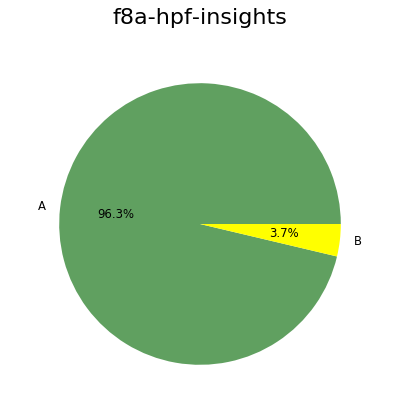
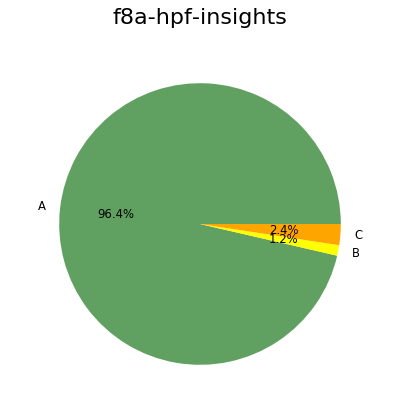
Dashboard 2018-08-17

Changed region(s): [[0.51, 0.54, 0.9, 0.66], [0.27, 0.51, 0.3, 0.54]]

diff --git a/dashboard/f8a-hpf-insights.cc.A.html b/dashboard/f8a-hpf-insights.cc.A.html
@@ -1,30 +1,31 @@
 <pre>tests/unit_tests/test_flask_endpoint.py
+    <span style="color:#00AA00">M </span>12:4 TestFlaskMethods.setUp - <span style="color:#00AA00">A (2)</span>
     <span style="color:#00AAAA">C </span>9:0 TestFlaskMethods - <span style="color:#00AA00">A (1)</span>
-    <span style="color:#00AA00">M </span>12:4 TestFlaskMethods.setUp - <span style="color:#00AA00">A (1)</span>
-    <span style="color:#00AA00">M </span>17:4 TestFlaskMethods.test_health_checks - <span style="color:#00AA00">A (1)</span>
-    <span style="color:#00AA00">M </span>23:4 TestFlaskMethods.test_root_path - <span style="color:#00AA00">A (1)</span>
-    <span style="color:#00AA00">M </span>27:4 TestFlaskMethods.test_model_details - <span style="color:#00AA00">A (1)</span>
-    <span style="color:#00AA00">M </span>32:4 TestFlaskMethods.test_companion_recommendations - <span style="color:#00AA00">A (1)</span>
+    <span style="color:#00AA00">M </span>18:4 TestFlaskMethods.test_health_checks - <span style="color:#00AA00">A (1)</span>
+    <span style="color:#00AA00">M </span>24:4 TestFlaskMethods.test_root_path - <span style="color:#00AA00">A (1)</span>
+    <span style="color:#00AA00">M </span>28:4 TestFlaskMethods.test_model_details - <span style="color:#00AA00">A (1)</span>
+    <span style="color:#00AA00">M </span>33:4 TestFlaskMethods.test_companion_recommendations - <span style="color:#00AA00">A (1)</span>
 tests/unit_tests/test_scoring_hpf_scoring.py
-    <span style="color:#00AA00">M </span>20:4 TestHPFScoringMethods.test_basic_object - <span style="color:#00AA00">B (8)</span>
-    <span style="color:#00AA00">M </span>92:4 TestHPFScoringMethods.test_predict - <span style="color:#00AA00">B (7)</span>
-    <span style="color:#00AA00">M </span>64:4 TestHPFScoringMethods.test_folding_in - <span style="color:#00AA00">B (6)</span>
-    <span style="color:#00AAAA">C </span>11:0 TestHPFScoringMethods - <span style="color:#00AA00">A (3)</span>
-    <span style="color:#00AA00">M </span>30:4 TestHPFScoringMethods.test_normalise_result - <span style="color:#00AA00">A (3)</span>
-    <span style="color:#00AA00">M </span>114:4 TestHPFScoringMethods.test_model_details - <span style="color:#00AA00">A (2)</span>
-    <span style="color:#00AA00">M </span>123:4 TestHPFScoringMethods.test_get_sizeof - <span style="color:#00AA00">A (2)</span>
+    <span style="color:#00AA00">M </span>82:4 TestHPFScoringMethods.test_folding_in - <span style="color:#AA5500">C (13)</span>
+    <span style="color:#00AA00">M </span>124:4 TestHPFScoringMethods.test_predict - <span style="color:#AA5500">C (12)</span>
+    <span style="color:#00AA00">M </span>21:4 TestHPFScoringMethods.test_basic_object - <span style="color:#00AA00">B (10)</span>
+    <span style="color:#00AAAA">C </span>11:0 TestHPFScoringMethods - <span style="color:#00AA00">A (5)</span>
+    <span style="color:#00AA00">M </span>33:4 TestHPFScoringMethods.test_normalise_result - <span style="color:#00AA00">A (5)</span>
+    <span style="color:#00AA00">M </span>59:4 TestHPFScoringMethods.test_match_feedback_manifest - <span style="color:#00AA00">A (4)</span>
+    <span style="color:#00AA00">M </span>162:4 TestHPFScoringMethods.test_model_details - <span style="color:#00AA00">A (3)</span>
+    <span style="color:#00AA00">M </span>172:4 TestHPFScoringMethods.test_get_sizeof - <span style="color:#00AA00">A (2)</span>
     <span style="color:#00AA00">M </span>14:4 TestHPFScoringMethods.__init__ - <span style="color:#00AA00">A (1)</span>
-    <span style="color:#00AA00">M </span>52:4 TestHPFScoringMethods.test_filter_recommendations - <span style="color:#00AA00">A (1)</span>
+    <span style="color:#00AA00">M </span>70:4 TestHPFScoringMethods.test_filter_recommendations - <span style="color:#00AA00">A (1)</span>
 tests/unit_tests/test_local_datastore.py
     <span style="color:#00AA00">M </span>18:4 TestLocalDataStoreMethods.test_get_name - <span style="color:#00AA00">A (3)</span>
-    <span style="color:#00AA00">M </span>40:4 TestLocalDataStoreMethods.test_read_json_file - <span style="color:#00AA00">A (3)</span>
-    <span style="color:#00AA00">M </span>48:4 TestLocalDataStoreMethods.test_read_all_json_files - <span style="color:#00AA00">A (3)</span>
+    <span style="color:#00AA00">M </span>42:4 TestLocalDataStoreMethods.test_read_json_file - <span style="color:#00AA00">A (3)</span>
+    <span style="color:#00AA00">M </span>51:4 TestLocalDataStoreMethods.test_read_all_json_files - <span style="color:#00AA00">A (3)</span>
     <span style="color:#00AAAA">C </span>10:0 TestLocalDataStoreMethods - <span style="color:#00AA00">A (2)</span>
-    <span style="color:#00AA00">M </span>57:4 TestLocalDataStoreMethods.test_write_remove_json_file - <span style="color:#00AA00">A (2)</span>
+    <span style="color:#00AA00">M </span>62:4 TestLocalDataStoreMethods.test_write_remove_json_file - <span style="color:#00AA00">A (2)</span>
     <span style="color:#00AA00">M </span>13:4 TestLocalDataStoreMethods.__init__ - <span style="color:#00AA00">A (1)</span>
     <span style="color:#00AA00">M </span>23:4 TestLocalDataStoreMethods.test_list_files - <span style="color:#00AA00">A (1)</span>
-    <span style="color:#00AA00">M </span>30:4 TestLocalDataStoreMethods.test_download_file - <span style="color:#00AA00">A (1)</span>
-    <span style="color:#00AA00">M </span>35:4 TestLocalDataStoreMethods.test_upload_file - <span style="color:#00AA00">A (1)</span>
+    <span style="color:#00AA00">M </span>32:4 TestLocalDataStoreMethods.test_download_file - <span style="color:#00AA00">A (1)</span>
+    <span style="color:#00AA00">M </span>37:4 TestLocalDataStoreMethods.test_upload_file - <span style="color:#00AA00">A (1)</span>
 tests/unit_tests/test_utils.py
     <span style="color:#AA00AA">F </span>6:0 test_convert_string2bool_env - <span style="color:#00AA00">A (3)</span>
 src/utils.py
@@ -72,18 +73,19 @@ src/data_store/s3_data_store.py
     <span style="color:#00AA00">M </span>68:4 S3DataStore.iterate_bucket_items - <span style="color:#00AA00">A (1)</span>
     <span style="color:#00AA00">M </span>79:4 S3DataStore.list_folders - <span style="color:#00AA00">A (1)</span>
 src/scoring/hpf_scoring.py
-    <span style="color:#00AA00">M </span>168:4 HPFScoring.match_manifest - <span style="color:#00AA00">A (5)</span>
-    <span style="color:#00AA00">M </span>136:4 HPFScoring.predict - <span style="color:#00AA00">A (4)</span>
-    <span style="color:#00AA00">M </span>188:4 HPFScoring.folding_in - <span style="color:#00AA00">A (4)</span>
-    <span style="color:#00AA00">M </span>207:4 HPFScoring.normalize_result - <span style="color:#00AA00">A (4)</span>
-    <span style="color:#00AA00">M </span>122:4 HPFScoring.load_jsons - <span style="color:#00AA00">A (3)</span>
-    <span style="color:#00AAAA">C </span>38:0 HPFScoring - <span style="color:#00AA00">A (2)</span>
-    <span style="color:#00AA00">M </span>41:4 HPFScoring.__init__ - <span style="color:#00AA00">A (2)</span>
-    <span style="color:#00AA00">M </span>222:4 HPFScoring.filter_recommendation - <span style="color:#00AA00">A (2)</span>
-    <span style="color:#00AA00">M </span>66:4 HPFScoring._getsizeof - <span style="color:#00AA00">A (1)</span>
-    <span style="color:#00AA00">M </span>74:4 HPFScoring.model_details - <span style="color:#00AA00">A (1)</span>
-    <span style="color:#00AA00">M </span>88:4 HPFScoring.load_s3 - <span style="color:#00AA00">A (1)</span>
-    <span style="color:#00AA00">M </span>108:4 HPFScoring.load_local - <span style="color:#00AA00">A (1)</span>
+    <span style="color:#00AA00">M </span>148:4 HPFScoring.load_jsons - <span style="color:#00AA00">A (5)</span>
+    <span style="color:#00AA00">M </span>204:4 HPFScoring.match_manifest - <span style="color:#00AA00">A (5)</span>
+    <span style="color:#00AA00">M </span>239:4 HPFScoring.folding_in - <span style="color:#00AA00">A (5)</span>
+    <span style="color:#00AA00">M </span>172:4 HPFScoring.predict - <span style="color:#00AA00">A (4)</span>
+    <span style="color:#00AA00">M </span>224:4 HPFScoring.match_feedback_manifest - <span style="color:#00AA00">A (4)</span>
+    <span style="color:#00AA00">M </span>262:4 HPFScoring.normalize_result - <span style="color:#00AA00">A (4)</span>
+    <span style="color:#00AA00">M </span>277:4 HPFScoring.filter_recommendation - <span style="color:#00AA00">A (4)</span>
+    <span style="color:#00AAAA">C </span>45:0 HPFScoring - <span style="color:#00AA00">A (3)</span>
+    <span style="color:#00AA00">M </span>48:4 HPFScoring.__init__ - <span style="color:#00AA00">A (2)</span>
+    <span style="color:#00AA00">M </span>98:4 HPFScoring.load_s3 - <span style="color:#00AA00">A (2)</span>
+    <span style="color:#00AA00">M </span>126:4 HPFScoring.load_local - <span style="color:#00AA00">A (2)</span>
+    <span style="color:#00AA00">M </span>76:4 HPFScoring._getsizeof - <span style="color:#00AA00">A (1)</span>
+    <span style="color:#00AA00">M </span>84:4 HPFScoring.model_details - <span style="color:#00AA00">A (1)</span>
 perf_tests/locust_tests.py
     <span style="color:#AA00AA">F </span>82:0 get_packages - <span style="color:#00AA00">A (1)</span>
     <span style="color:#00AAAA">C </span>89:0 HPFInsightsBehaviour - <span style="color:#00AA00">A (1)</span>
@@ -91,6 +93,6 @@ perf_tests/locust_tests.py
     <span style="color:#00AA00">M </span>96:4 HPFInsightsBehaviour.trigger_companion_recommendation_random_stack_len - <span style="color:#00AA00">A (1)</span>
     <span style="color:#00AAAA">C </span>104:0 HPFInsightsLocust - <span style="color:#00AA00">A (1)</span>
 
-81 blocks (classes, functions, methods) analyzed.
-Average complexity: <span style="color:#00AA00">A (1.8395061728395061)</span>
+83 blocks (classes, functions, methods) analyzed.
+Average complexity: <span style="color:#00AA00">A (2.2289156626506026)</span>
 </pre>

diff --git a/dashboard/dashboard.html b/dashboard/dashboard.html
@@ -178,7 +178,7 @@ Please note that only semantical problems are reported; problems with style are 
                         <tr>
                             <td style="width:33ex"><a href="https://github.com/fabric8-analytics/fabric8-analytics-common">fabric8-analytics-common</a></td>
                             <td class="numeric" style="width:7ex"><a href="repository_fabric8-analytics-common.html">105</a></td>
-                            <td class="numeric" style="width:7ex">13568</td>
+                            <td class="numeric" style="width:7ex">13574</td>
                                 <td class="numeric ok" style="width:6ex">105</td>
                                 <td class="numeric error" style="width:6ex">0</td>
                                 <td class="numeric" style="width:16ex">
@@ -779,12 +779,12 @@ Please note that only semantical problems are reported; problems with style are 
                                         </div>
                                     </a>
                                 </td>
-                                <td class="numeric ok" style="width:6ex">110</td>
-                                <td class="numeric error" style="width:6ex">65</td>
+                                <td class="numeric ok" style="width:6ex">5</td>
+                                <td class="numeric error" style="width:6ex">3</td>
                                 <td class="numeric" style="width:16ex">
                                     <a href="fabric8-analytics-auth.coverage.txt">
-                                        <div class='progress-bar progress-bar-warning progress-bar-striped' style='width:49.85%'>
-                                        41%
+                                        <div class='progress-bar progress-bar-warning progress-bar-striped' style='width:49.0%'>
+                                        40%
                                         </div>
                                     </a>
                                 </td>
@@ -1126,7 +1126,7 @@ Please note that only semantical problems are reported; problems with style are 
                         <tr>
                             <td style="width:33ex"><a href="https://github.com/fabric8-analytics/f8a-hpf-insights">f8a-hpf-insights</a></td>
                             <td class="numeric" style="width:7ex"><a href="repository_f8a-hpf-insights.html">23</a></td>
-                            <td class="numeric" style="width:7ex">945</td>
+                            <td class="numeric" style="width:7ex">1060</td>
                                 <td class="numeric ok" style="width:6ex">23</td>
                                 <td class="numeric error" style="width:6ex">0</td>
                                 <td class="numeric" style="width:16ex">
@@ -1145,12 +1145,12 @@ Please note that only semantical problems are reported; problems with style are 
                                         </div>
                                     </a>
                                 </td>
-                                <td class="numeric ok" style="width:6ex">224</td>
-                                <td class="numeric error" style="width:6ex">18</td>
+                                <td class="numeric ok" style="width:6ex">242</td>
+                                <td class="numeric error" style="width:6ex">3</td>
                                 <td class="numeric" style="width:16ex">
                                     <a href="f8a-hpf-insights.coverage.txt">
-                                        <div class='progress-bar progress-bar-success progress-bar-striped' style='width:93.2%'>
-                                        92%
+                                        <div class='progress-bar progress-bar-success progress-bar-striped' style='width:99.14999999999999%'>
+                                        99%
                                         </div>
                                     </a>
                                 </td>
@@ -1159,9 +1159,9 @@ Please note that only semantical problems are reported; problems with style are 
 
                                     <td class="numeric error"><a href="f8a-hpf-insights.common_errors.txt" class="numeric error">3</a></td>
 
-                                <td class="numeric ignored" style="width:3ex;padding-left:0px;padding-right:2px;"><a href="f8a-hpf-insights.cc.A.html" class="numeric ignored">78</a></td>
-                                <td class="numeric ignored" style="width:3ex;padding-left:0px;padding-right:2px;"><a href="f8a-hpf-insights.cc.B.html" class="numeric ignored">3</a></td>
-                                <td class="numeric ignored" style="width:3ex;padding-left:0px;padding-right:2px;"><a href="f8a-hpf-insights.cc.C.html" class="numeric ignored">0</a></td>
+                                <td class="numeric ignored" style="width:3ex;padding-left:0px;padding-right:2px;"><a href="f8a-hpf-insights.cc.A.html" class="numeric ignored">80</a></td>
+                                <td class="numeric ignored" style="width:3ex;padding-left:0px;padding-right:2px;"><a href="f8a-hpf-insights.cc.B.html" class="numeric ignored">1</a></td>
+                                <td class="numeric ignored" style="width:3ex;padding-left:0px;padding-right:2px;"><a href="f8a-hpf-insights.cc.C.html" class="numeric ignored">2</a></td>
 
                                     <td class="numeric ok" style="width:3ex;padding-left:0px;padding-right:2px;"><a href="f8a-hpf-insights.cc.D.html" class="numeric ok">0</a></td>
                                     <td class="numeric ok" style="width:3ex;padding-left:0px;padding-right:2px;"><a href="f8a-hpf-insights.cc.E.html" class="numeric ok">0</a></td>
@@ -1455,7 +1455,7 @@ Please note that only semantical problems are reported; problems with style are 
             </div>
             <div style='height:100px'></div>
             <div>Author: Pavel Tisnovsky &lt;<a href="mailto:ptisnovs@redhat.com">ptisnovs@redhat.com</a>&gt;</div>
-            <div>Generated on: 2018-08-15 20:02:31</div>
+            <div>Generated on: 2018-08-17 09:18:21</div>
         </div>
         <script type="text/javascript">
         $(function () {

diff --git a/dashboard/repository_f8a-hpf-insights.html b/dashboard/repository_f8a-hpf-insights.html
@@ -32,13 +32,13 @@
                     </tr>
                     <tr>
                         <td><a href="https://github.com/fabric8-analytics/f8a-hpf-insights/blob/master/tests/unit_tests/test_flask_endpoint.py">tests/unit_tests/test_flask_endpoint.py</a></td>
-                        <td class="numeric">44</td>
+                        <td class="numeric">45</td>
                             <td class="boolean ok">&#x2713;</td>
                             <td class="boolean ok">&#x2713;</td>
                     </tr>
                     <tr>
                         <td><a href="https://github.com/fabric8-analytics/f8a-hpf-insights/blob/master/tests/unit_tests/test_scoring_hpf_scoring.py">tests/unit_tests/test_scoring_hpf_scoring.py</a></td>
-                        <td class="numeric">131</td>
+                        <td class="numeric">180</td>
                             <td class="boolean ok">&#x2713;</td>
                             <td class="boolean ok">&#x2713;</td>
                     </tr>
@@ -50,7 +50,7 @@
                     </tr>
                     <tr>
                         <td><a href="https://github.com/fabric8-analytics/f8a-hpf-insights/blob/master/tests/unit_tests/test_local_datastore.py">tests/unit_tests/test_local_datastore.py</a></td>
-                        <td class="numeric">68</td>
+                        <td class="numeric">73</td>
                             <td class="boolean ok">&#x2713;</td>
                             <td class="boolean ok">&#x2713;</td>
                     </tr>
@@ -128,7 +128,7 @@
                     </tr>
                     <tr>
                         <td><a href="https://github.com/fabric8-analytics/f8a-hpf-insights/blob/master/src/scoring/hpf_scoring.py">src/scoring/hpf_scoring.py</a></td>
-                        <td class="numeric">241</td>
+                        <td class="numeric">301</td>
                             <td class="boolean ok">&#x2713;</td>
                             <td class="boolean ok">&#x2713;</td>
                     </tr>
@@ -166,7 +166,7 @@
             </div>
             <div style='height:100px'></div>
             <div>Author: Pavel Tisnovsky &lt;<a href="mailto:ptisnovs@redhat.com">ptisnovs@redhat.com</a>&gt;</div>
-            <div>Generated on: 2018-08-15 20:02:31</div>
+            <div>Generated on: 2018-08-17 09:18:21</div>
         </div>
     </body>
 </html>

diff --git a/dashboard/f8a-hpf-insights.mi.A.html b/dashboard/f8a-hpf-insights.mi.A.html
@@ -1,6 +1,6 @@
 <pre>tests/__init__.py - <span style="color:#00AA00">A (100.00)</span>
-tests/unit_tests/test_flask_endpoint.py - <span style="color:#00AA00">A (66.15)</span>
-tests/unit_tests/test_scoring_hpf_scoring.py - <span style="color:#00AA00">A (57.27)</span>
+tests/unit_tests/test_flask_endpoint.py - <span style="color:#00AA00">A (62.30)</span>
+tests/unit_tests/test_scoring_hpf_scoring.py - <span style="color:#00AA00">A (45.38)</span>
 tests/unit_tests/__init__.py - <span style="color:#00AA00">A (100.00)</span>
 tests/unit_tests/test_local_datastore.py - <span style="color:#00AA00">A (49.56)</span>
 tests/unit_tests/test_utils.py - <span style="color:#00AA00">A (84.36)</span>
@@ -9,13 +9,13 @@ tests/test_data/maven/__init__.py - <span style="color:#00AA00">A (100.00)</span
 tests/test_data/maven/scoring/__init__.py - <span style="color:#00AA00">A (100.00)</span>
 src/__init__.py - <span style="color:#00AA00">A (100.00)</span>
 src/utils.py - <span style="color:#00AA00">A (100.00)</span>
-src/flask_endpoint.py - <span style="color:#00AA00">A (61.23)</span>
+src/flask_endpoint.py - <span style="color:#00AA00">A (60.04)</span>
 src/data_store/__init__.py - <span style="color:#00AA00">A (100.00)</span>
 src/data_store/abstract_data_store.py - <span style="color:#00AA00">A (100.00)</span>
 src/data_store/local_data_store.py - <span style="color:#00AA00">A (55.87)</span>
 src/data_store/s3_data_store.py - <span style="color:#00AA00">A (76.89)</span>
 src/scoring/__init__.py - <span style="color:#00AA00">A (100.00)</span>
-src/scoring/hpf_scoring.py - <span style="color:#00AA00">A (57.32)</span>
+src/scoring/hpf_scoring.py - <span style="color:#00AA00">A (52.07)</span>
 src/training/__init__.py - <span style="color:#00AA00">A (100.00)</span>
 PoC_code/__init__.py - <span style="color:#00AA00">A (100.00)</span>
 perf_tests/__init__.py - <span style="color:#00AA00">A (100.00)</span>

diff --git a/dashboard/fabric8-analytics-common.cc.A.html b/dashboard/fabric8-analytics-common.cc.A.html
@@ -667,11 +667,11 @@ integration-tests/features/steps/gemini.py
     <span style="color:#AA00AA">F </span>19:0 set_git_url - <span style="color:#00AA00">A (1)</span>
     <span style="color:#AA00AA">F </span>25:0 set_git_sha - <span style="color:#00AA00">A (1)</span>
 integration-tests/features/steps/authorization.py
-    <span style="color:#AA00AA">F </span>28:0 acquire_authorization_token - <span style="color:#00AA00">A (3)</span>
-    <span style="color:#AA00AA">F </span>75:0 check_api_token - <span style="color:#00AA00">A (3)</span>
-    <span style="color:#AA00AA">F </span>16:0 is_proper_authorization_token_for_server_api - <span style="color:#00AA00">A (2)</span>
-    <span style="color:#AA00AA">F </span>22:0 is_proper_authorization_token_for_jobs_api - <span style="color:#00AA00">A (2)</span>
-    <span style="color:#AA00AA">F </span>51:0 generate_authorization_token - <span style="color:#00AA00">A (2)</span>
+    <span style="color:#AA00AA">F </span>34:0 acquire_authorization_token - <span style="color:#00AA00">A (3)</span>
+    <span style="color:#AA00AA">F </span>81:0 check_api_token - <span style="color:#00AA00">A (3)</span>
+    <span style="color:#AA00AA">F </span>22:0 is_proper_authorization_token_for_server_api - <span style="color:#00AA00">A (2)</span>
+    <span style="color:#AA00AA">F </span>28:0 is_proper_authorization_token_for_jobs_api - <span style="color:#00AA00">A (2)</span>
+    <span style="color:#AA00AA">F </span>57:0 generate_authorization_token - <span style="color:#00AA00">A (2)</span>
 integration-tests/features/steps/backbone_api.py
     <span style="color:#AA00AA">F </span>47:0 verify_database_entry - <span style="color:#00AA00">B (6)</span>
     <span style="color:#AA00AA">F </span>36:0 check_valid_response - <span style="color:#00AA00">A (3)</span>

diff --git a/dashboard/f8a-hpf-insights.cc.B.html b/dashboard/f8a-hpf-insights.cc.B.html
@@ -1,8 +1,8 @@
 <pre>tests/unit_tests/test_scoring_hpf_scoring.py
-    <span style="color:#00AA00">M </span>20:4 TestHPFScoringMethods.test_basic_object - <span style="color:#00AA00">B (8)</span>
-    <span style="color:#00AA00">M </span>92:4 TestHPFScoringMethods.test_predict - <span style="color:#00AA00">B (7)</span>
-    <span style="color:#00AA00">M </span>64:4 TestHPFScoringMethods.test_folding_in - <span style="color:#00AA00">B (6)</span>
+    <span style="color:#00AA00">M </span>82:4 TestHPFScoringMethods.test_folding_in - <span style="color:#AA5500">C (13)</span>
+    <span style="color:#00AA00">M </span>124:4 TestHPFScoringMethods.test_predict - <span style="color:#AA5500">C (12)</span>
+    <span style="color:#00AA00">M </span>21:4 TestHPFScoringMethods.test_basic_object - <span style="color:#00AA00">B (10)</span>
 
 3 blocks (classes, functions, methods) analyzed.
-Average complexity: <span style="color:#00AA00">B (7.0)</span>
+Average complexity: <span style="color:#AA5500">C (11.666666666666666)</span>
 </pre>

diff --git a/dashboard/repository_fabric8-analytics-common.html b/dashboard/repository_fabric8-analytics-common.html
@@ -416,7 +416,7 @@
                     </tr>
                     <tr>
                         <td><a href="https://github.com/fabric8-analytics/fabric8-analytics-common/blob/master/integration-tests/features/steps/authorization.py">integration-tests/features/steps/authorization.py</a></td>
-                        <td class="numeric">83</td>
+                        <td class="numeric">89</td>
                             <td class="boolean ok">&#x2713;</td>
                             <td class="boolean ok">&#x2713;</td>
                     </tr>
@@ -658,7 +658,7 @@
             </div>
             <div style='height:100px'></div>
             <div>Author: Pavel Tisnovsky &lt;<a href="mailto:ptisnovs@redhat.com">ptisnovs@redhat.com</a>&gt;</div>
-            <div>Generated on: 2018-08-15 20:02:31</div>
+            <div>Generated on: 2018-08-17 09:18:21</div>
         </div>
     </body>
 </html>

diff --git a/dashboard/fabric8-analytics-common.mi.A.html b/dashboard/fabric8-analytics-common.mi.A.html
@@ -64,7 +64,7 @@ integration-tests/features/steps/s3_interface.py - <span style="color:#00AA00">A
 integration-tests/features/steps/stack_analysis.py - <span style="color:#00AA00">A (25.52)</span>
 integration-tests/features/steps/common.py - <span style="color:#00AA00">A (43.82)</span>
 integration-tests/features/steps/gemini.py - <span style="color:#00AA00">A (76.35)</span>
-integration-tests/features/steps/authorization.py - <span style="color:#00AA00">A (75.60)</span>
+integration-tests/features/steps/authorization.py - <span style="color:#00AA00">A (74.77)</span>
 integration-tests/features/steps/backbone_api.py - <span style="color:#00AA00">A (64.04)</span>
 integration-tests/features/steps/license_analysis.py - <span style="color:#00AA00">A (38.25)</span>
 integration-tests/hack/json2pom.py - <span style="color:#00AA00">A (100.00)</span>

diff --git a/dashboard/f8a-hpf-insights.cc.C.html b/dashboard/f8a-hpf-insights.cc.C.html
@@ -1,1 +1,7 @@
-<pre></pre>
+<pre>tests/unit_tests/test_scoring_hpf_scoring.py
+    <span style="color:#00AA00">M </span>82:4 TestHPFScoringMethods.test_folding_in - <span style="color:#AA5500">C (13)</span>
+    <span style="color:#00AA00">M </span>124:4 TestHPFScoringMethods.test_predict - <span style="color:#AA5500">C (12)</span>
+
+2 blocks (classes, functions, methods) analyzed.
+Average complexity: <span style="color:#AA5500">C (12.5)</span>
+</pre>

diff --git a/dashboard/repository_fabric8-analytics-worker.html b/dashboard/repository_fabric8-analytics-worker.html
@@ -1000,7 +1000,7 @@
             </div>
             <div style='height:100px'></div>
             <div>Author: Pavel Tisnovsky &lt;<a href="mailto:ptisnovs@redhat.com">ptisnovs@redhat.com</a>&gt;</div>
-            <div>Generated on: 2018-08-15 20:02:31</div>
+            <div>Generated on: 2018-08-17 09:18:21</div>
         </div>
     </body>
 </html>

diff --git a/dashboard/repository_fabric8-analytics-data-model.html b/dashboard/repository_fabric8-analytics-data-model.html
@@ -160,7 +160,7 @@
             </div>
             <div style='height:100px'></div>
             <div>Author: Pavel Tisnovsky &lt;<a href="mailto:ptisnovs@redhat.com">ptisnovs@redhat.com</a>&gt;</div>
-            <div>Generated on: 2018-08-15 20:02:31</div>
+            <div>Generated on: 2018-08-17 09:18:21</div>
         </div>
     </body>
 </html>

diff --git a/dashboard/repository_fabric8-analytics-ingestion.html b/dashboard/repository_fabric8-analytics-ingestion.html
@@ -106,7 +106,7 @@
             </div>
             <div style='height:100px'></div>
             <div>Author: Pavel Tisnovsky &lt;<a href="mailto:ptisnovs@redhat.com">ptisnovs@redhat.com</a>&gt;</div>
-            <div>Generated on: 2018-08-15 20:02:31</div>
+            <div>Generated on: 2018-08-17 09:18:21</div>
         </div>
     </body>
 </html>
